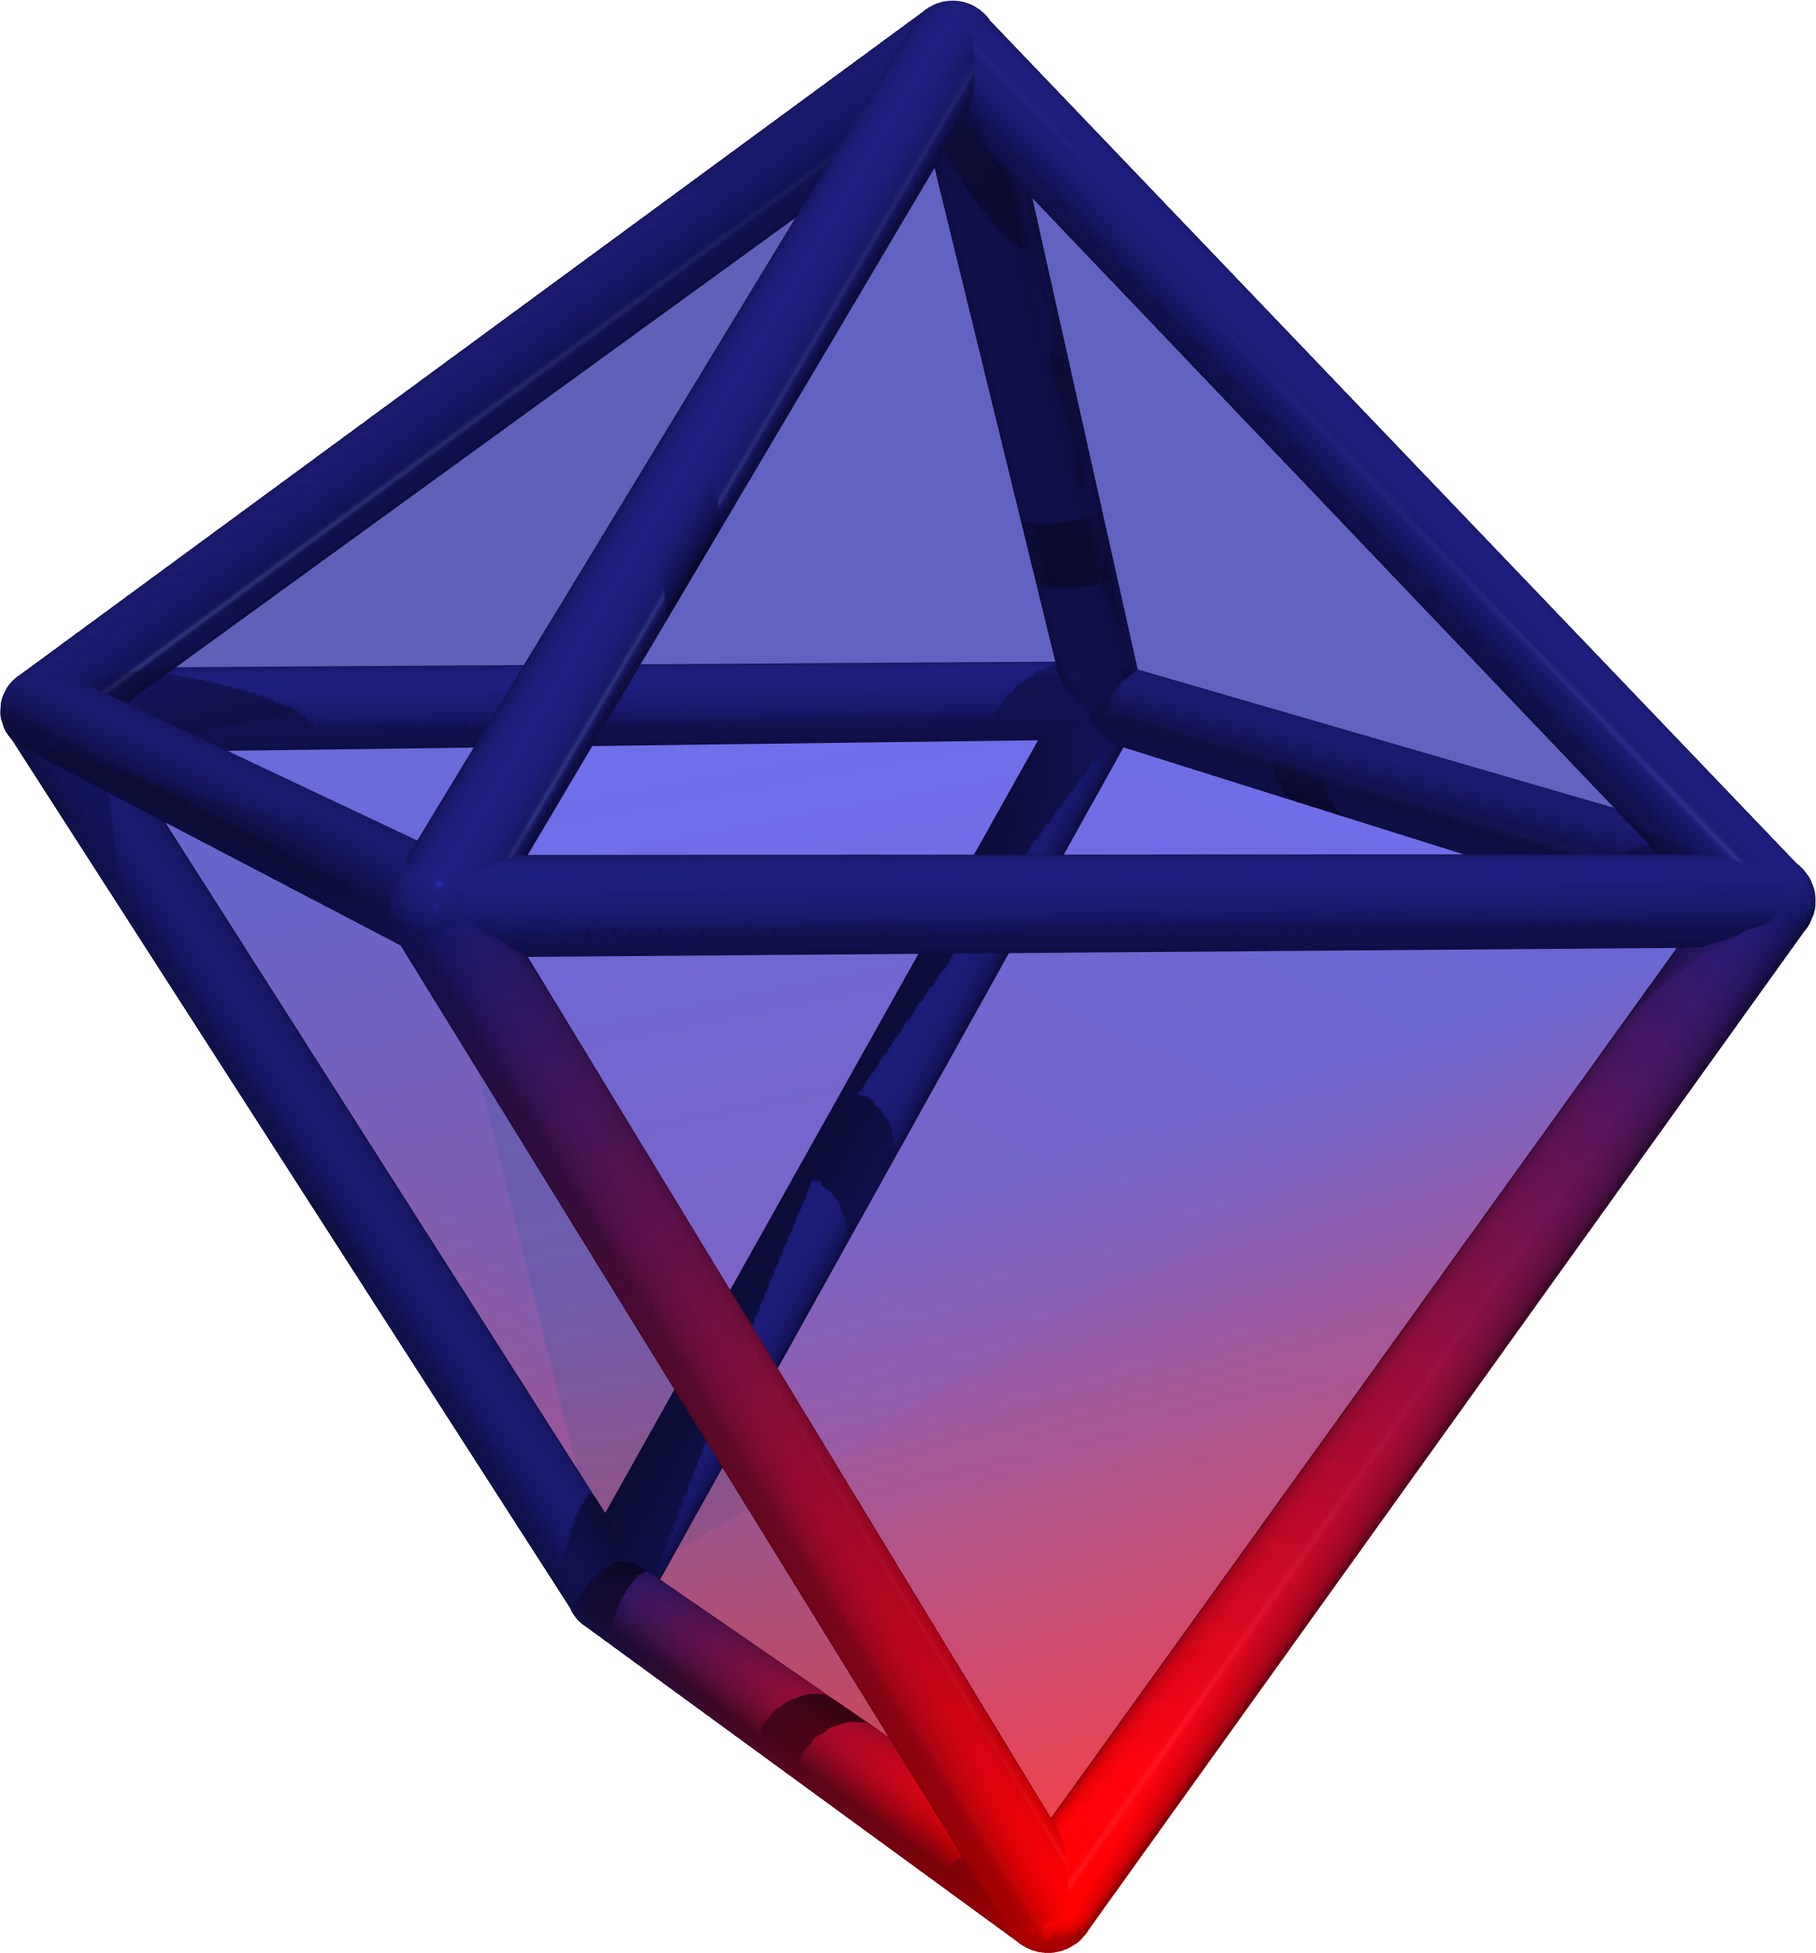
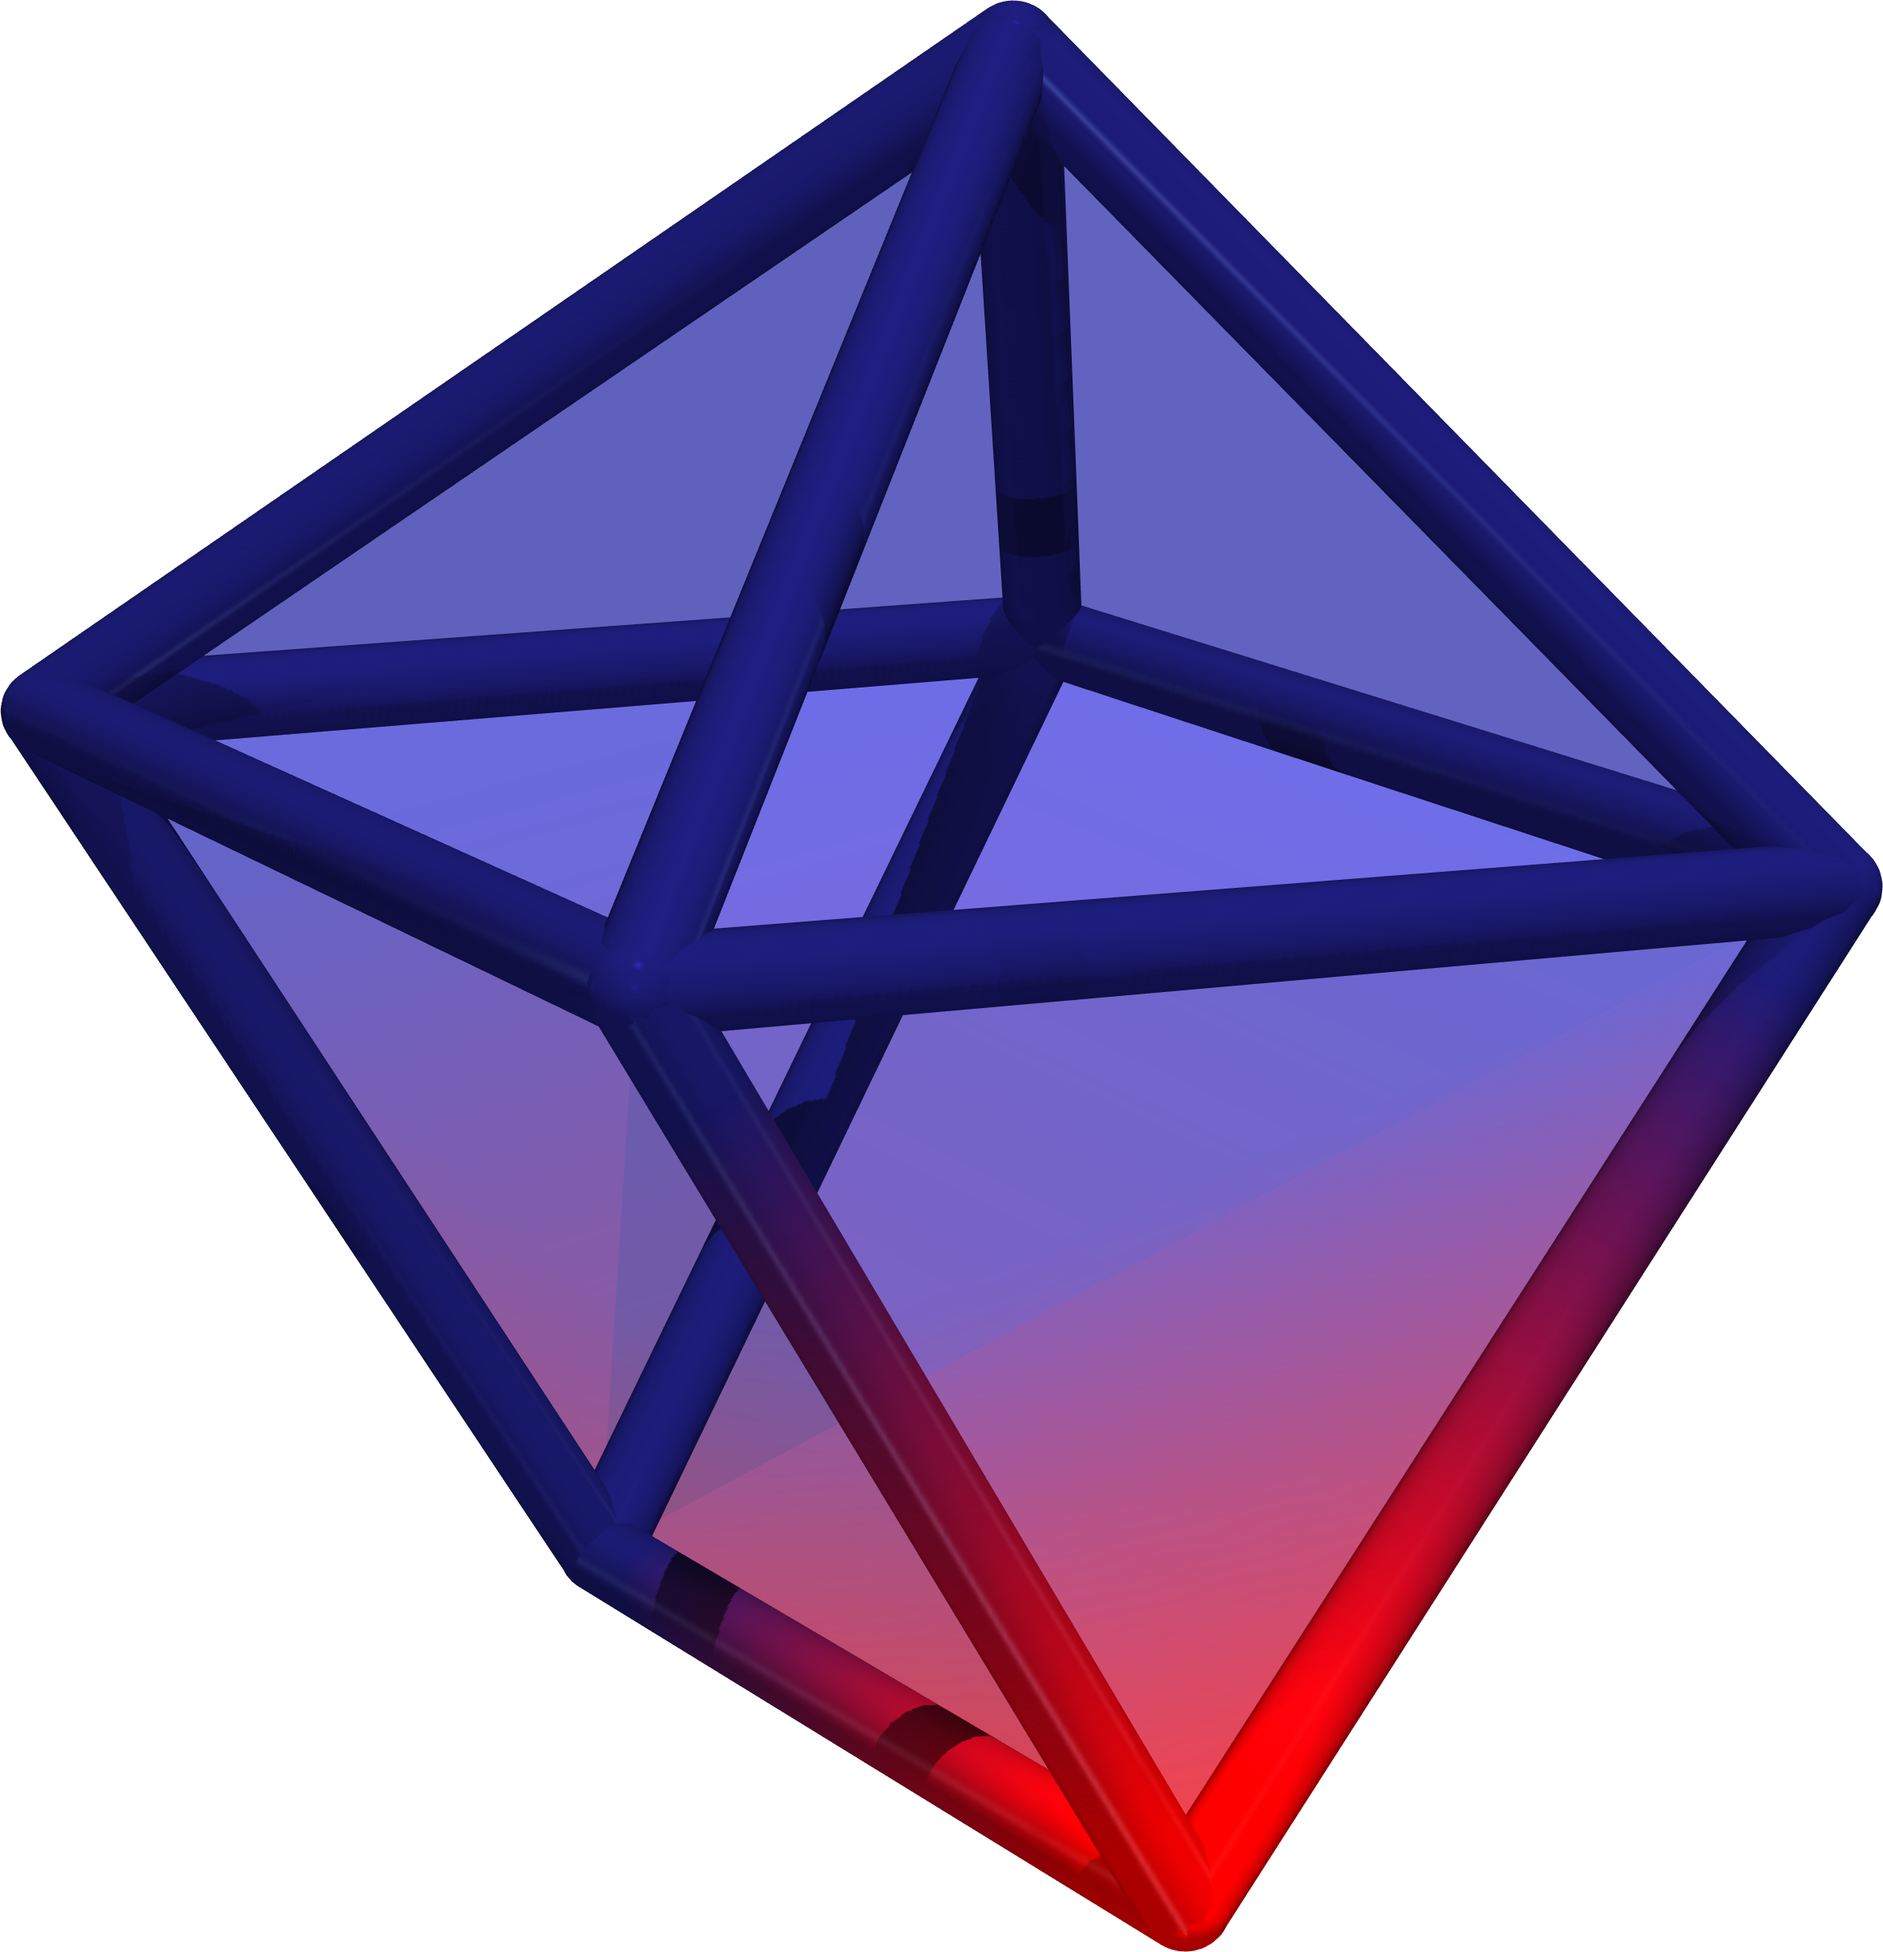
Created more options for bond gradient shading

diff --git a/examples/render_capped_trigonal_prism/calc_sph_clean.py b/examples/render_capped_trigonal_prism/calc_sph_clean.py
@@ -32,11 +32,25 @@ def distance_projected(pointa, pointb, pointc, pointd):
 # end point colours 
 # actor_name will be the name of the actor in the plotter, needed for interactive deletion
 # a_color and b_color (colors of end points as strings)
-def add_bond(plotter, pointa, pointb, a_color, b_color, actor_name):
+# Supported bond gradients: 0 (default, shading starts from the tips),
+# any number between 0 and 0.5
+# every other number is invalid 
+def add_bond(plotter, pointa, pointb, a_color, b_color, actor_name, bond_gradient_start=0.0,**kwargs):
 
-    # Create matplotlib colormap
-    colors = [a_color, b_color]
-    m_cmap = LinearSegmentedColormap.from_list("mycmap", colors)
+    # Create matplotlib colormap which will be the gradient for the bond 
+    if bond_gradient_start==0.0:
+        colors = [a_color, b_color]
+        m_cmap = LinearSegmentedColormap.from_list("mycmap", colors)
+    elif bond_gradient_start>0.0 and bond_gradient_start<=0.5:
+        nodes = [0.0, bond_gradient_start, 1.0-bond_gradient_start, 1.0]
+        colors = [a_color, a_color, b_color, b_color]
+        m_cmap = LinearSegmentedColormap.from_list("mycmap", list(zip(nodes,colors)))
+    else:
+        # Print warning
+        print("You entered an invalid value for bond shading. Reverting to default.\n")
+        colors = [a_color, b_color]
+        m_cmap = LinearSegmentedColormap.from_list("mycmap", colors)
+
     # Each tube is between the two input points 
     tube = pv.Tube(pointa=pointa, pointb=pointb, resolution=1, radius=0.1, n_sides=15)
     # Create color ids
@@ -45,20 +59,14 @@ def add_bond(plotter, pointa, pointb, a_color, b_color, actor_name):
         color_ids.append(distance_projected(tube.points[0], point, tube.points[0], tube.points[-1]))
     color_ids = np.array(color_ids)
     plotter.add_mesh(tube, 
-    show_edges=False,
-    metallic=True,
-    smooth_shading=True,
-    specular=0.7,
-    ambient=0.3,
     scalars=color_ids,
     cmap=m_cmap,
-    show_scalar_bar=False,
-    pickable=True,
-    name=actor_name) # pbr=True for shiny 
+    name=actor_name,
+    **kwargs)
 
     return plotter
 
-def create_bonds_from_edges(plotter, hull:PolyData, edges, point_colours=None, single_bond_color=None):
+def create_bonds_from_edges(plotter, hull:PolyData, edges, point_colours=None, single_bond_color=None, bond_gradient_start=0.0,**kwargs):
     """
     Create bonds from faces in a PolyData object 
     """ 
@@ -73,14 +81,15 @@ def create_bonds_from_edges(plotter, hull:PolyData, edges, point_colours=None, s
         pointb = points[b_index]
         actor_name = "tube"+str(idx)
         # Create the bond
-        plotter = add_bond(plotter, pointa, pointb, point_colours[a_index], point_colours[b_index], actor_name)
+        plotter = add_bond(plotter, pointa, pointb, point_colours[a_index], point_colours[b_index], actor_name, bond_gradient_start,**kwargs)
 
     return plotter 
 
 # The points are coloured according to a list of colours  
 # actor_name will be the name of the actor in the plotter, needed for interactive deletion
-# colors should be a list containing the colors for each atom 
-def add_atoms(plotter, pointset, colors, radius):
+# colors should be a list containing the colors for each atom
+# kwargs: Other plotting key word arguments you can set for PyVista 
+def add_atoms(plotter, pointset, colors, radius, **kwargs):
 
     # Go over all the points inside pointset
     for i, (point, color) in enumerate(zip(pointset, colors)):
@@ -89,13 +98,8 @@ def add_atoms(plotter, pointset, colors, radius):
         # Add the actor
         plotter.add_mesh(sphere,
         color=color, 
-        show_edges=False,
-        metallic=True,
-        smooth_shading=True,
-        specular=0.7,
-        ambient=0.3,
-        pickable=True,
-        name=actor_name) # pbr=True for shiny
+        name=actor_name,
+        **kwargs) # pbr=True for shiny metallic appearance 
 
     return plotter
 
@@ -126,16 +130,47 @@ def sphericity(vol,area):
     sph = (math.pi**(1.0/3.0) * (6* vol)**(2.0/3.0)) / area
     return sph
 
-# def create_tube(point1, point2):
-    
-#     return tube
-
 # Input filename 
 infilename = '../../resources/single_capped_trigonal_prism_unwrapped.lammpstrj'
 # In the LAMMPS trajectory file, the types of atoms are 1, 2 and 3 for O, H and Fe respectively.
 fe_type = 3
 h_type = 2
 o_type = 1
+
+# Decide what kind of gradient shading you want for bonds 
+bond_gradient_start = 0.1
+
+# Options for plotting meshes with PyVista
+
+# Dictionary for solvation shell mesh (add_mesh) options 
+shell_mesh_options = {'line_width':3, 
+'show_edges':False,
+'opacity':0.5,
+'metallic':True,
+'specular':0.7,
+'ambient':0.3}
+
+# Dictionary for atom (add_mesh) options
+atom_mesh_options = {'show_edges':False,
+'metallic':True,
+'smooth_shading':True,
+'specular':0.7,
+'ambient':0.3,
+'pickable':True,
+}
+
+# Dictionary for bond (add_mesh) options
+bond_mesh_options = {'show_edges':False,
+'metallic':True,
+'smooth_shading':True,
+'specular':0.7,
+'ambient':0.3,
+'show_scalar_bar':False,
+'pickable':True,
+}
+
+# ------------------------------------------------------
+# Glean the coordinates from the LAMMPS trajectory file 
 
 # Read in the current frame 
 currentframe = read(infilename, format="lammps-dump-text") # Read in the last frame of the trajectory
@@ -193,21 +228,17 @@ colors = ["#3737d2", "red"]
 matplotlib_cmap = LinearSegmentedColormap.from_list("mycmap", colors)
 # Add the convex hull 
 pl.add_mesh(polyhull, 
-    line_width=3, 
-    show_edges=False,
-    opacity=0.5,
-    metallic=True,
-    show_scalar_bar=False,
-    specular=0.7,
-    ambient=0.3,cmap=matplotlib_cmap, 
+    cmap=matplotlib_cmap, 
     clim=[dist[4],dist[-1]], 
     scalars=dist,
-    pickable=False)
+    show_scalar_bar=False,
+    pickable=False,
+    **shell_mesh_options)
 
 # Create the bonds corresponding to the edges and add them to the plotter
 # Use matplotlib colors for points and bonds!
 point_colours = ["midnightblue", "midnightblue", "midnightblue", "midnightblue", "midnightblue", "midnightblue", "red"]# Don't hard code darkblue midnightblue
-pl = create_bonds_from_edges(pl, polyhull, edges, point_colours=point_colours)
+pl = create_bonds_from_edges(pl, polyhull, edges, point_colours=point_colours, bond_gradient_start=bond_gradient_start,**bond_mesh_options)
 
 # ------------------------------------
 # Remove bonds (actors), which are individual meshes 
@@ -240,24 +271,19 @@ pl_render.enable_shadows()
 
 # Colour the mesh faces according to the distance from the center 
 pl_render.add_mesh(polyhull, 
-    line_width=3, 
-    show_edges=False,
-    opacity=0.5,
-    metallic=True,
-    show_scalar_bar=False,
-    specular=0.7,
-    ambient=0.3,
     cmap=matplotlib_cmap, 
     clim=[dist[4],dist[-1]], 
-    scalars=dist) 
+    scalars=dist,
+    show_scalar_bar=False,
+    **shell_mesh_options) 
 
 # Create the bonds from the edges
-pl_render = create_bonds_from_edges(pl_render, polyhull, edges, point_colours=point_colours)
+pl_render = create_bonds_from_edges(pl_render, polyhull, edges, point_colours=point_colours, bond_gradient_start=bond_gradient_start,**bond_mesh_options)
 # Remove the bonds 
 pl_render.remove_actor(remove_bonds)
 
 # Add the atoms as spheres 
-pl_render = add_atoms(pl_render, k_near_pos, point_colours, radius=0.1)
+pl_render = add_atoms(pl_render, k_near_pos, point_colours, radius=0.1, **atom_mesh_options)
 
 pl_render.camera_position = cam_positions[-1]
 pl_render.camera_set = True
